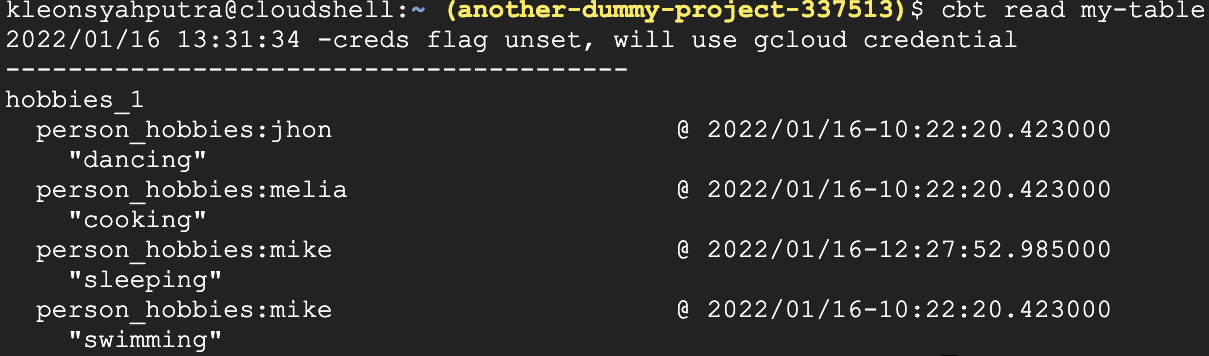
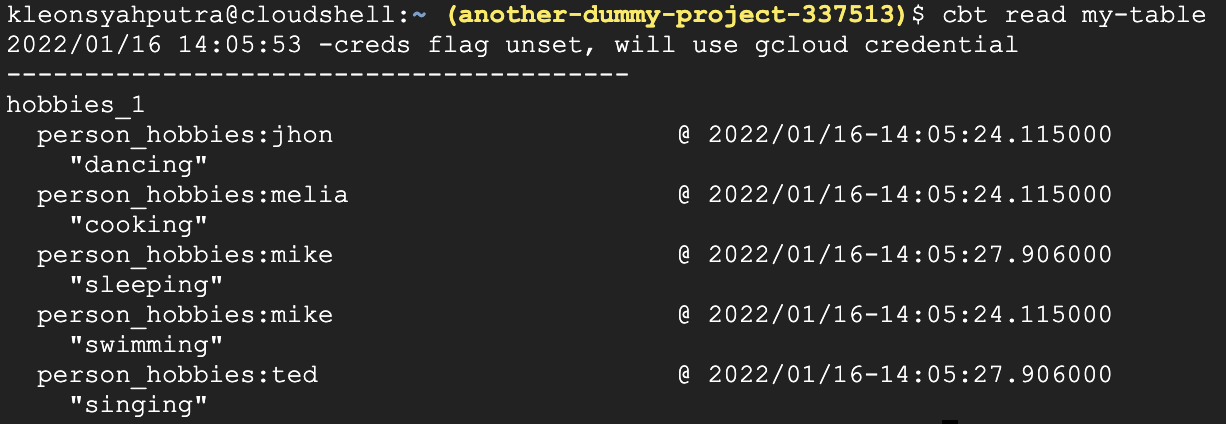
write_simple() 2 data to insert duplicate value for same column_id

diff --git a/write_read_bigtable.py b/write_read_bigtable.py
@@ -79,12 +79,17 @@ table = bigtable_config()
 # define data to insert
 row_key = 'hobbies_1'
 column_family_id = 'person_hobbies'
-person_hobbies = [
+person_hobbies_1 = [
     {'person': 'mike', 'hobby': 'swimming'},
     {'person': 'jhon', 'hobby': 'dancing'},
     {'person': 'melia', 'hobby': 'cooking'}
 ]
+person_hobbies_2 = [
+    {'person': 'mike', 'hobby': 'sleeping'},
+    {'person': 'ted', 'hobby': 'singing'}
+]
 
-# write_simple(table, row_key, column_family_id, person_hobbies)
+# write_simple(table, row_key, column_family_id, person_hobbies_1)
+# write_simple(table, row_key, column_family_id, person_hobbies_2)
 read_columns_per_row_key(table, row_key, column_family_id)
 # read_cell_by_column_id(table, row_key, column_family_id, 'mike')

diff --git a/README.md b/README.md
@@ -34,6 +34,7 @@
 [
     {'jhon': ['dancing']}, 
     {'melia': ['cooking']}, 
-    {'mike': ['sleeping', 'swimming']}
+    {'mike': ['sleeping', 'swimming']}, 
+    {'ted': ['singing']}
 ]
 ```
